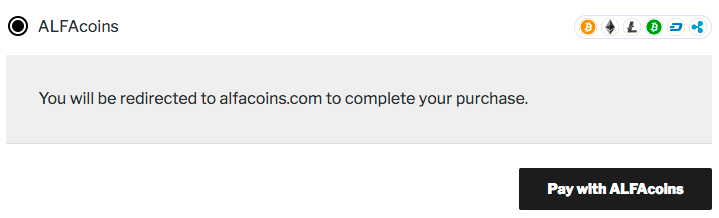
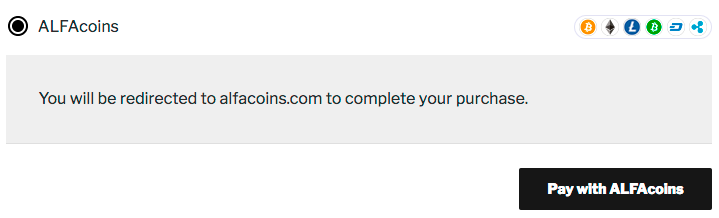
version 0.8

diff --git a/README.md b/README.md
@@ -1,11 +1,11 @@
 # ALFAcoins for WooCommerce
 
-Enable your WooCommerce store to accept XRP, Dash, Bitcoin Cash, Bitcoin, Litecoin and Ethereum with ALFAcoins!
-Register for free at [ALFAcoins](https://www.alfacoins.com/user/register) to start accepting XRP, Dash, Bitcoin Cash, Bitcoin, Litecoin and Ethereum
+Enable your WooCommerce store to accept Bitcoin, Litecoin, Ethereum, Bitcoin Cash, Dash and XRP with ALFAcoins!
+Register for free at [ALFAcoins](https://www.alfacoins.com/user/register) to start accepting Bitcoin, Litecoin, Ethereum, Bitcoin Cash, Dash and XRP
 
 ## Description
 
-Start accepting XRP, Dash, Bitcoin Cash, Bitcoin, Litecoin and Ethereum in 2 minutes with ALFAcoins!
+Start accepting Bitcoin, Litecoin, Ethereum, Bitcoin Cash, Dash and XRP in 2 minutes with ALFAcoins!
 In 2013, journalists Joshua Brustein and Timothy Lee expressed concern that bitcoin is problematic due to its high volatility.
 With ALFAcoins volatility is not a problem - get usual money payments or setup the CoinSplit and receive cryptocurrency up to 100%.
 
